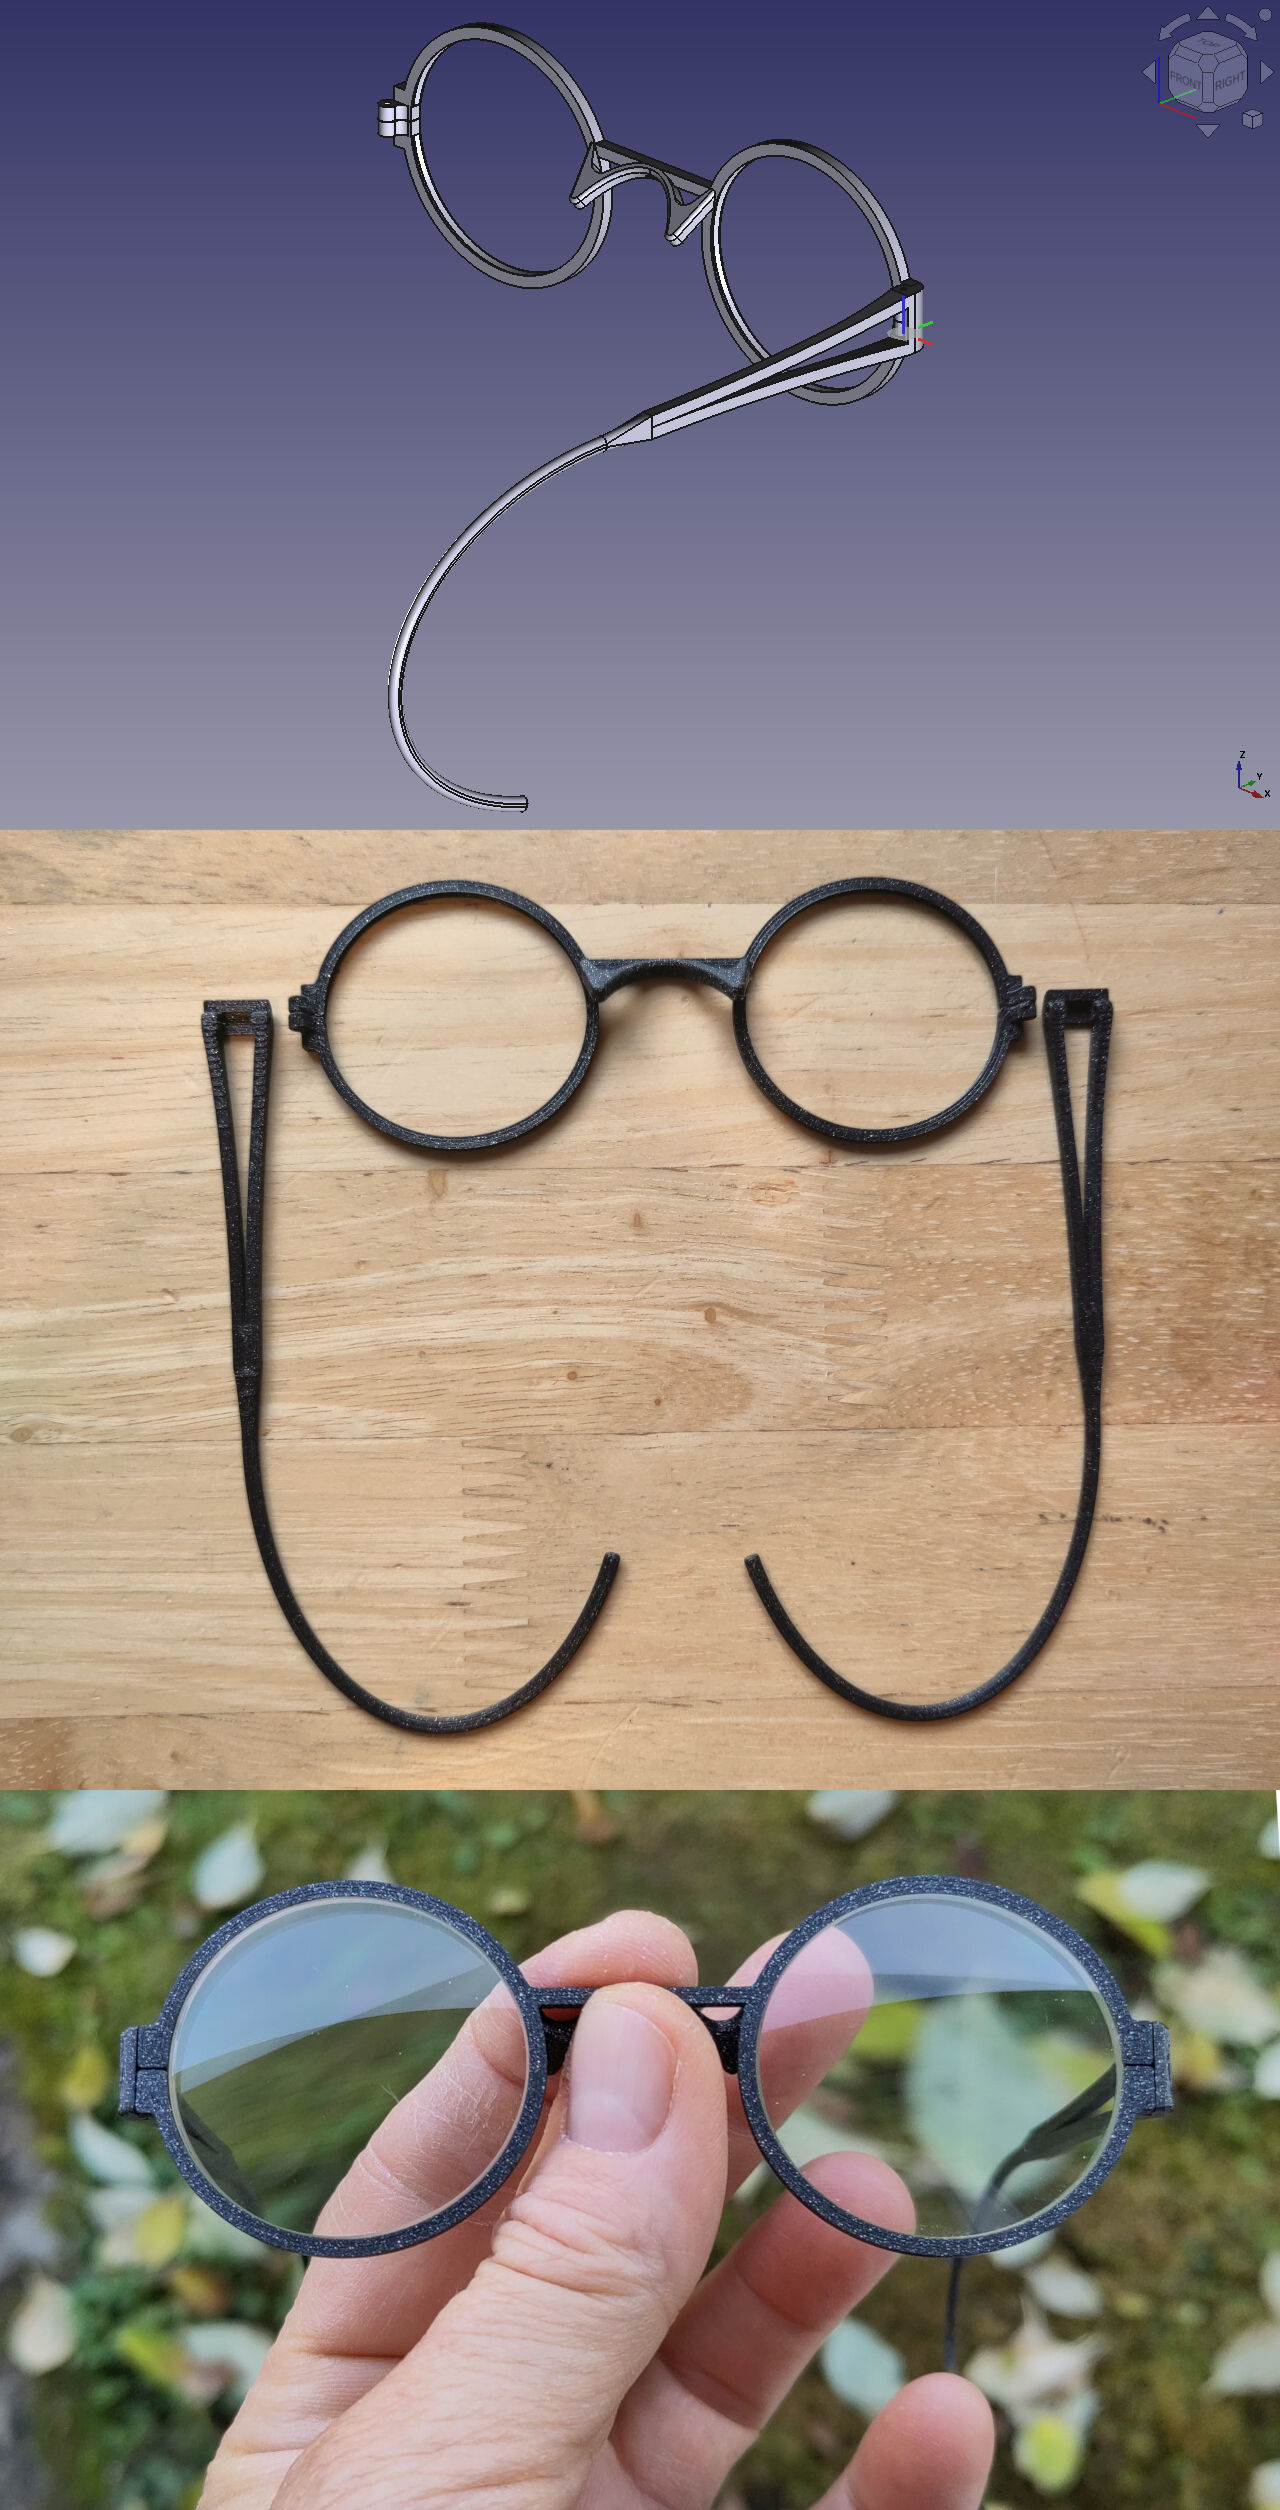
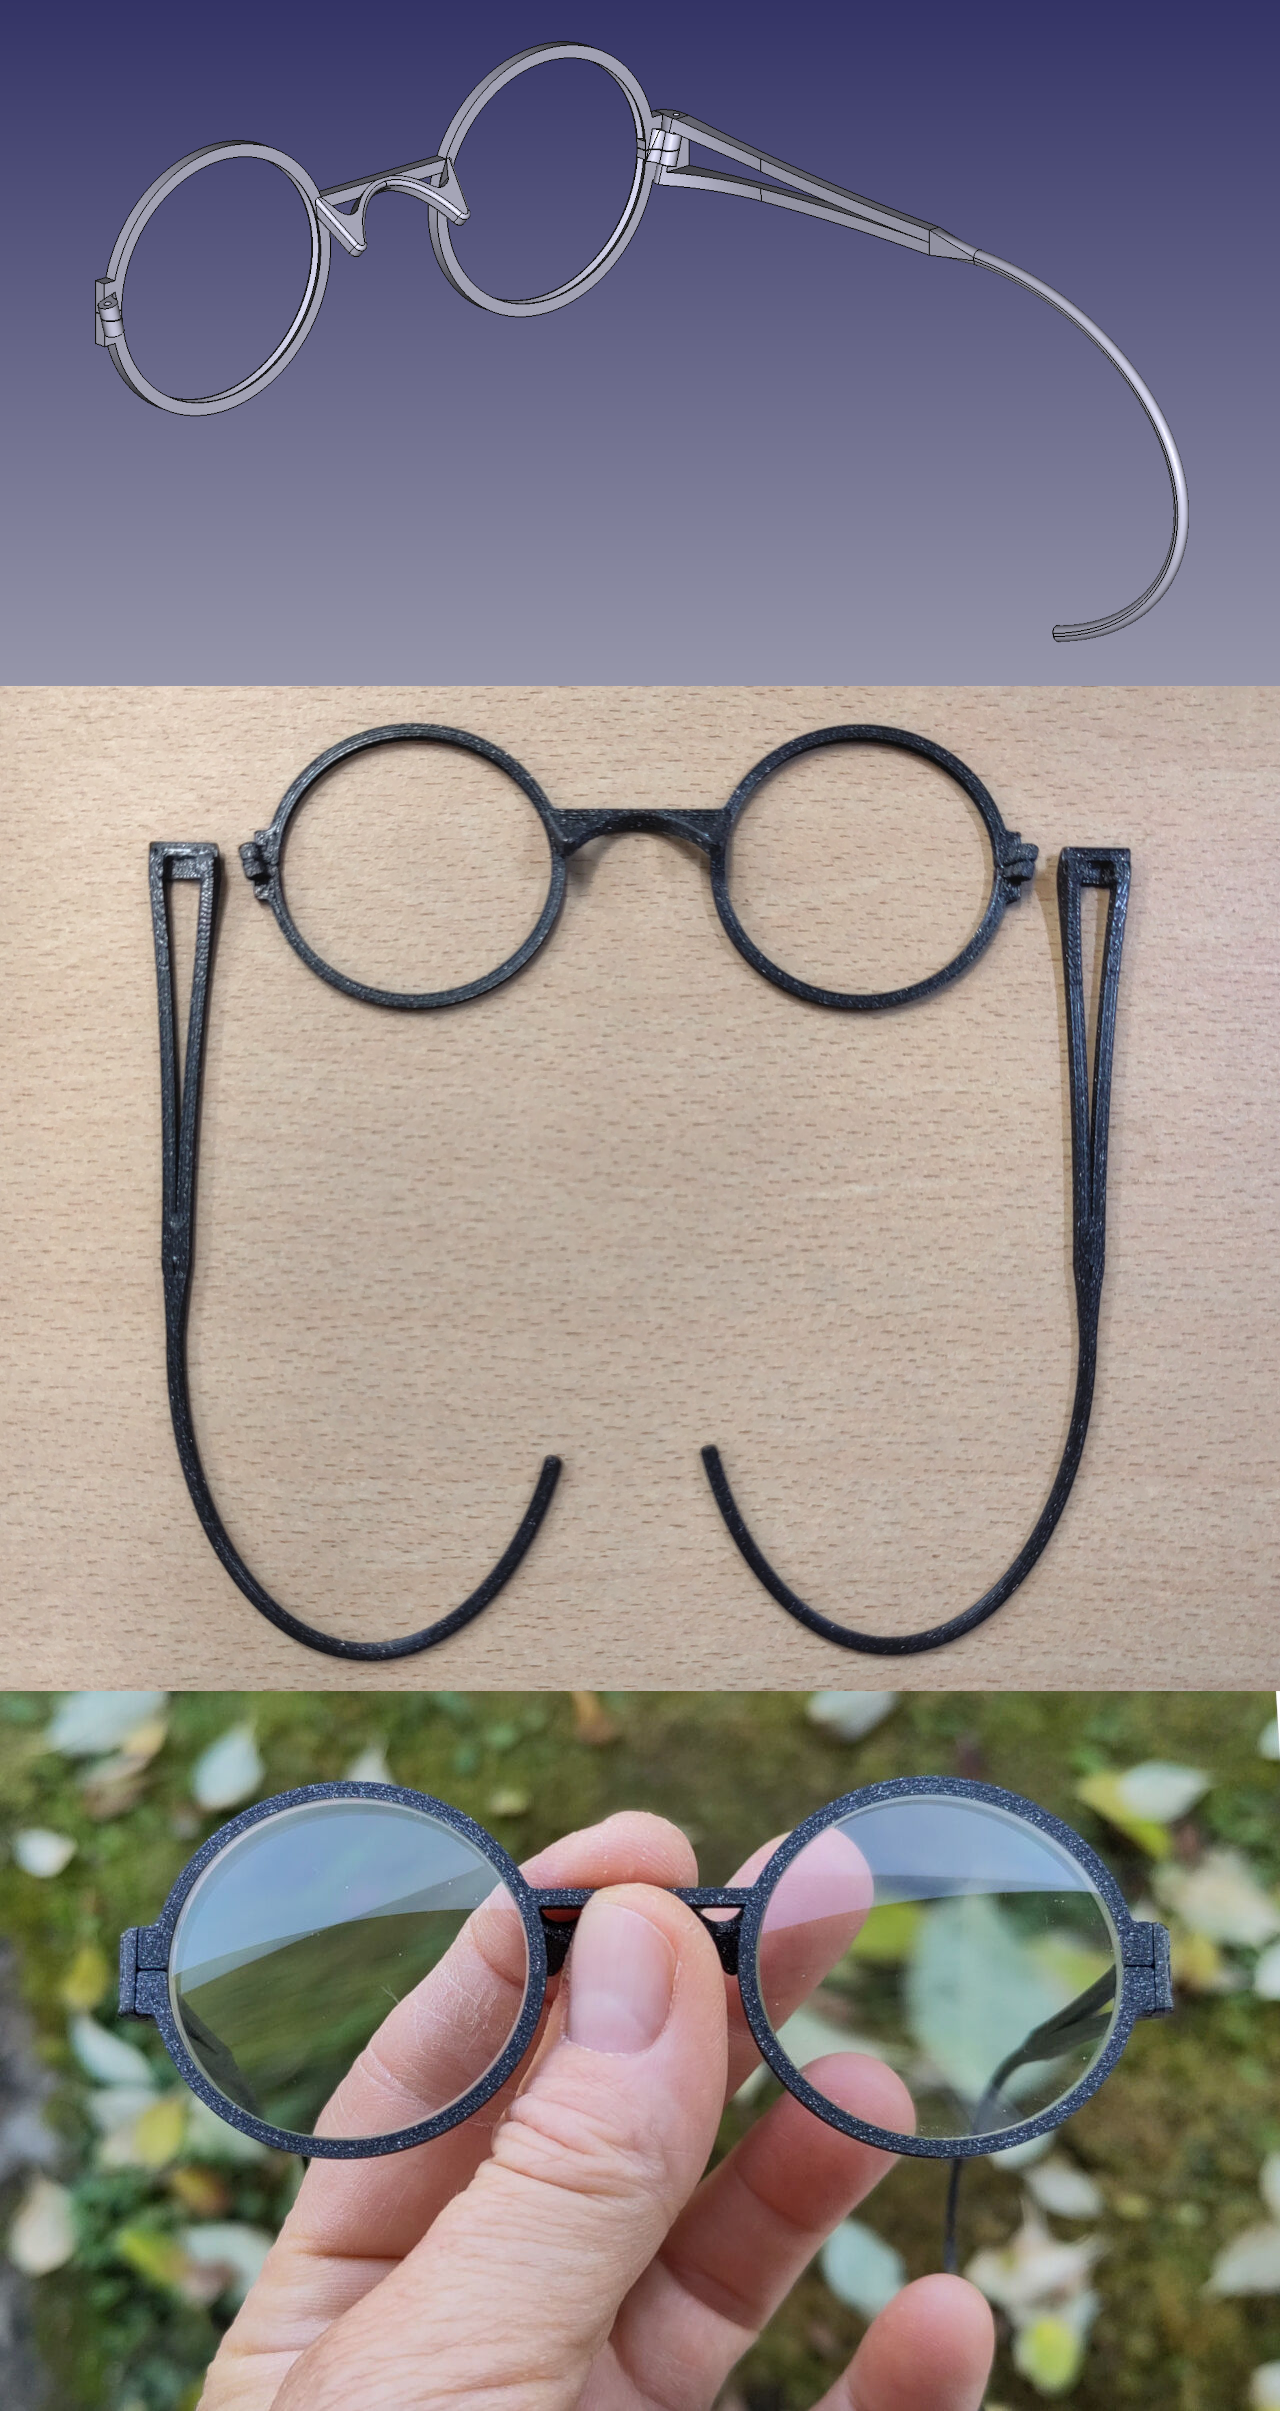
Updated the documentation to mention the angled hinge axes. Added more images and explanations.

diff --git a/README.md b/README.md
@@ -1,5 +1,5 @@
 # 3D-printed eyeglasses
-### Version 1.0
+### Version 1.1
 
 Those are the CAD files for the frames of the spectacles I wear every day. When I break the frames, or if I want a new color for a bit of diversity, I simply print new frames and reuse the lenses.
 
@@ -95,6 +95,7 @@ You can print the frames in any material you want, even PLA. Prefer low layer he
 - Cover the lenses in scotch tape to avoid damaging them in the vise.
 - File a 3mm-wide notch into the bevel centered on the line on each lens. Don't file any deeper than the height of the bevel, otherwise the notch will be visible when the lens is mounted in the frame!
 
+![Lens bevel notch](images/lens_bevel_notch.png)
 
 
 ## Assembly
@@ -107,7 +108,18 @@ You can print the frames in any material you want, even PLA. Prefer low layer he
 ### Instructions
 
 - After printing, crack off the supports.
+- Ream the hinge pin holes on the frame and both temples with a 0.9mm drillbit, then as little as possible with a 1.0mm drillbit. Be careful when you insert the drillbits: the axes of the hinges are angled 15° vertically to allow the temples to fold up and fit in a regular glasses case. If you insert the drillbits straight vertically, you will damage the hinges!
+
+![Hinge axis angle](images/hinge_axis_angle.png)
+![Hinge axis angle](images/temple_folding_upward.png)
+
 - Insert each lens into its holder with the notch facing the hinge.
+
+![Lining up the lens bevel notch with the hinge](images/lining_up_lens_bevel_notch_with_hinge.png)
+
 - Orient each lens until both halves of the hinge drop into the notch and the hinge closes completely.
+
+![Closing the hinge](images/closing_the_hinge.png)
+
 - Fit the temples onto the hinges.
 - Drive a dowel pin through each temple and hinge to hold everything together.
